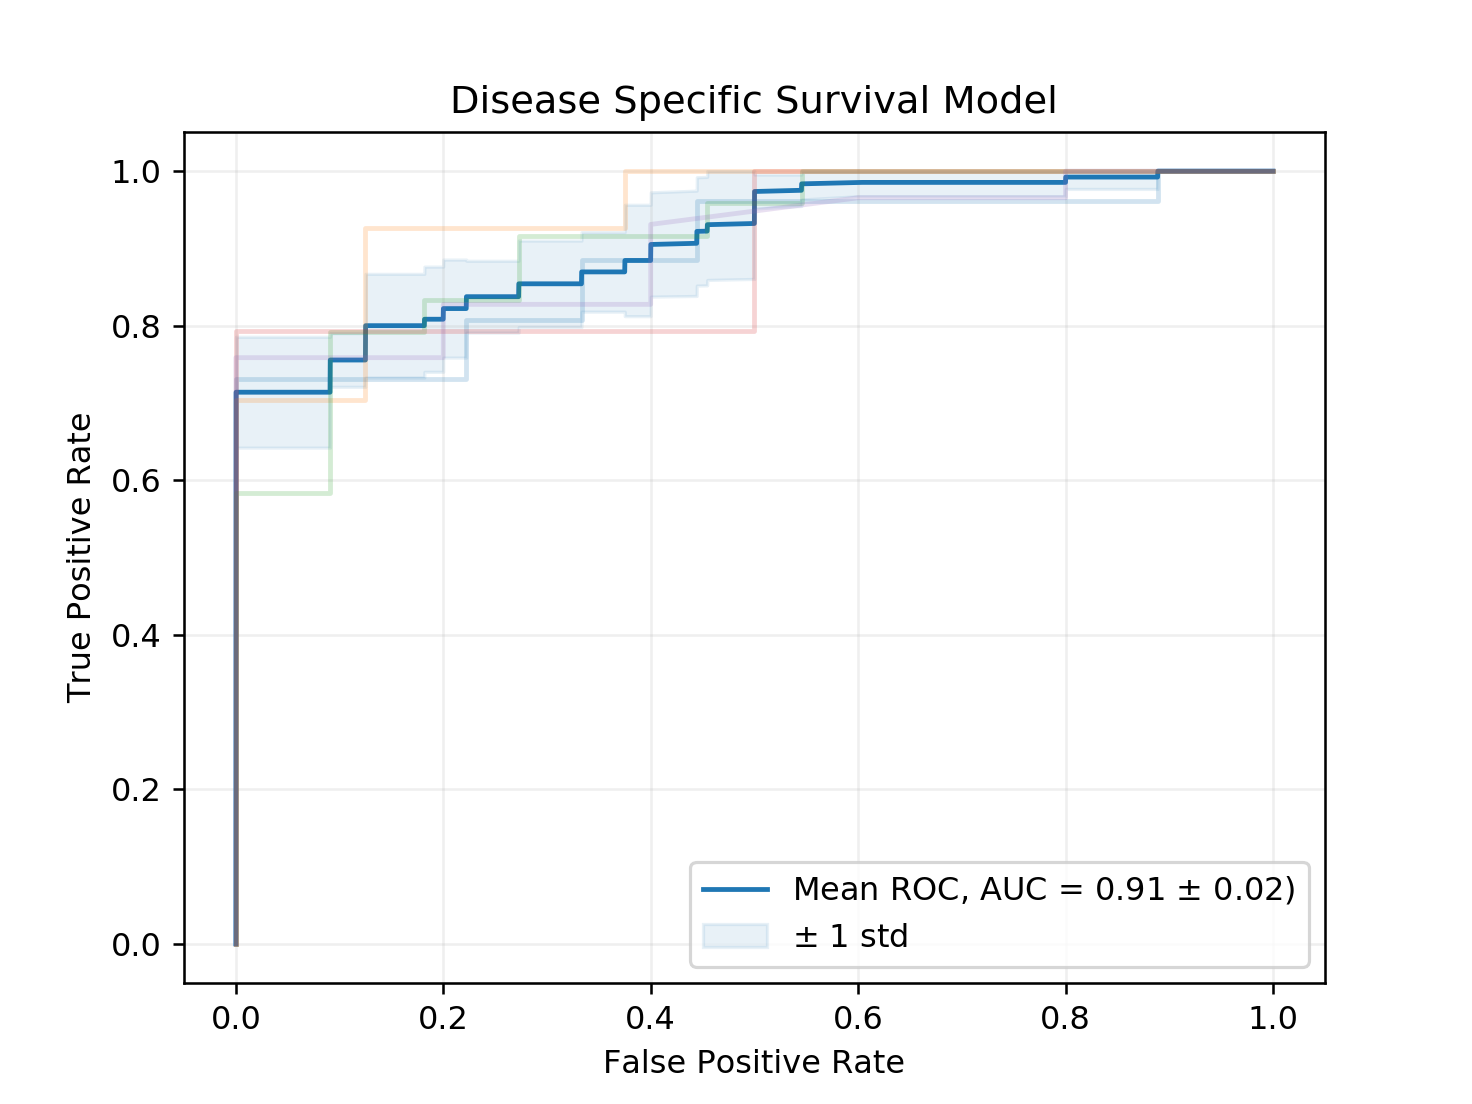
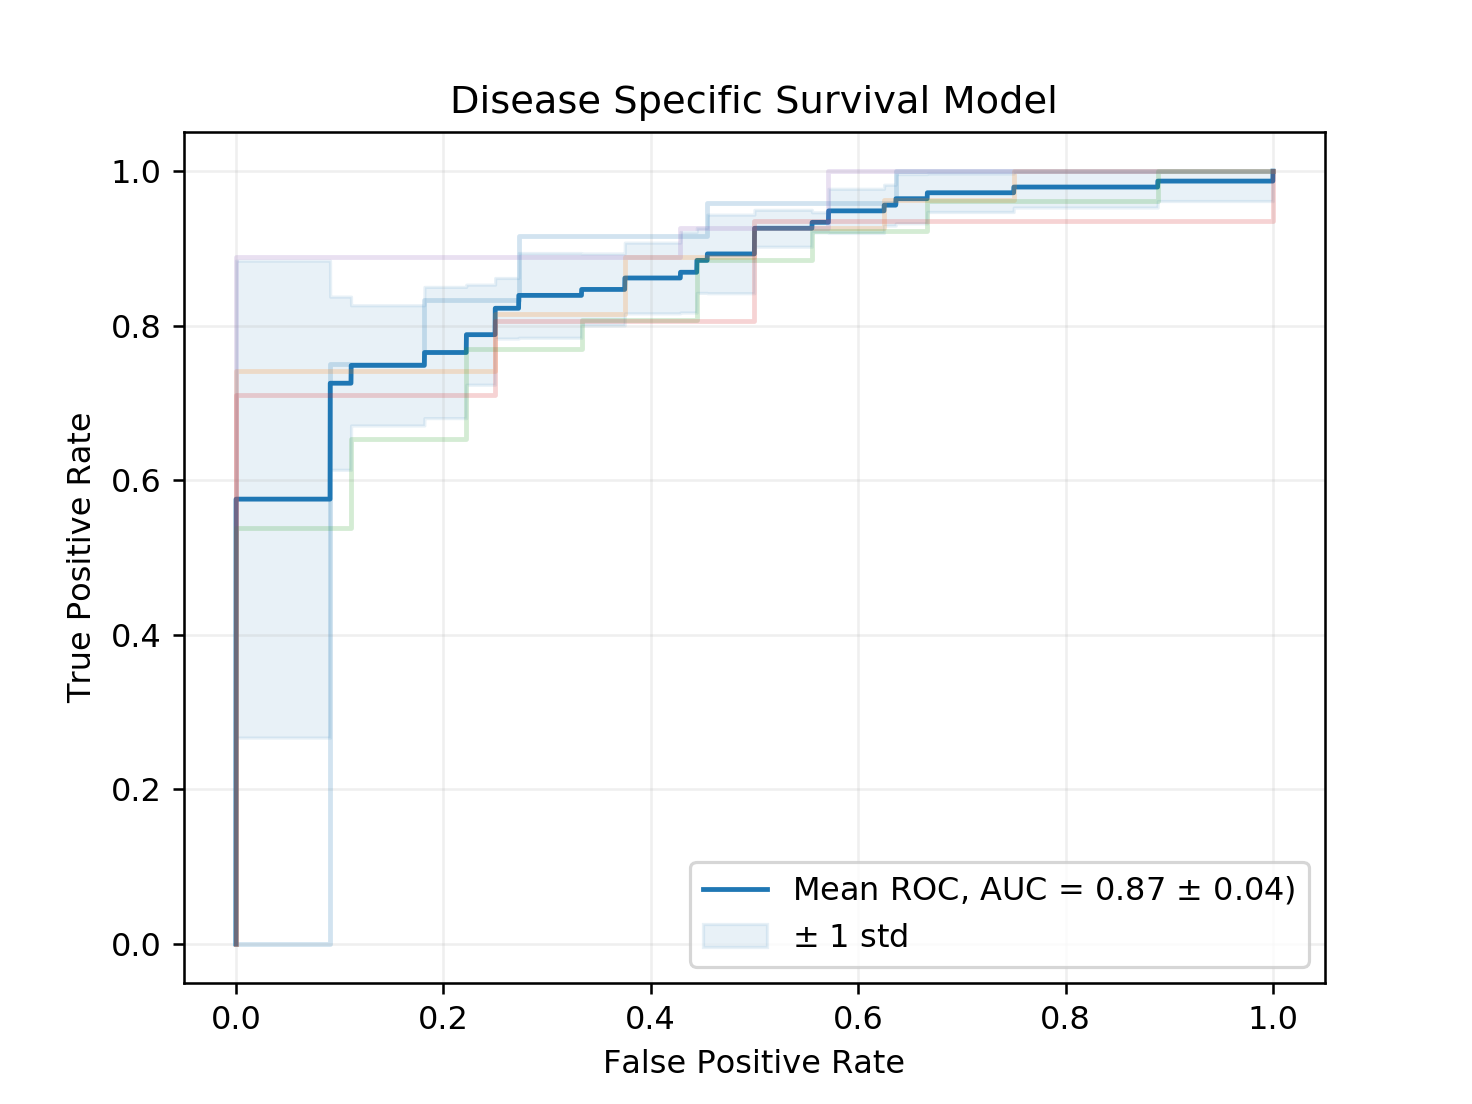
Everything seems to be working

Changed region(s): [[0.1562, 0.154, 0.875, 0.8623], [0.8438, 0.8007, 0.875, 0.8315], [0.75, 0.8007, 0.7812, 0.8315]]

diff --git a/utils.py b/utils.py
@@ -92,13 +92,16 @@ def AUCplot(spec_model, over_model, spec_xtest, over_xtest, yspec, yover, spec_r
 	over_rocs.append([fpr_over, tpr_over])
 
 	# Generate Calibration Curves
-	N = 4
+	N = 10
 	strategy = 'uniform'
-	spec_cal  = calibration_curve(yspec.data.cpu().numpy(), probspec.data.cpu().numpy(), n_bins=N, strategy=strategy)
-	over_cal  = calibration_curve(yover.data.cpu().numpy(), probover.data.cpu().numpy(), n_bins=N, strategy=strategy)
-	#URGENT assert ((len(spec_cal[1])==N) and (len(over_cal[1])==N)), f'len is {len(spec_cal[1])}, {len(over_cal[1])} not {N}'
-	spec_cals.append(spec_cal)
-	over_cals.append(over_cal)
+	# These 4 lines are required to create the K calibration curves and find the mean w/ the +/-1 std region
+	#spec_cal  = calibration_curve(yspec.data.cpu().numpy(), probspec.data.cpu().numpy(), n_bins=N, strategy=strategy)
+	#over_cal  = calibration_curve(yover.data.cpu().numpy(), probover.data.cpu().numpy(), n_bins=N, strategy=strategy)
+	#spec_cals.append(spec_cal)
+	#over_cals.append(over_cal)
+	# These 2 lines are required to create the single calibration curve comprised from all datapoints
+	spec_cals.append([yspec.data.cpu().numpy(), probspec.data.cpu().numpy()])
+	over_cals.append([yover.data.cpu().numpy(), probover.data.cpu().numpy()])
 
 	# Compute AUC Scores
 	AUCspec = roc_auc_score(yspec.data.cpu().numpy(), probspec.data.cpu().numpy())
@@ -210,6 +213,11 @@ def AUCplot(spec_model, over_model, spec_xtest, over_xtest, yspec, yover, spec_r
 
 		# Calibration Plot
 		both_calfig, both_calax = plt.subplots()
+
+		'''
+		# This creates K calibration plots, and computes the mean (interpolated) with a +/- 1 std region
+
+		both_calfig, both_calax = plt.subplots()
 		mean_spec_cal = []
 		mean_over_cal = []
 		for CAL in spec_cals:
@@ -258,6 +266,31 @@ def AUCplot(spec_model, over_model, spec_xtest, over_xtest, yspec, yover, spec_r
 		both_calax.set_ylabel('Observed Population')
 		both_calax.title.set_text("Calibration Curve")
 		plt.savefig("BothCalibration.png", dpi=230)
+		'''
+
+		#pdb.set_trace()
+		y_spec = np.concatenate([cal[0] for cal in spec_cals])
+		p_spec = np.concatenate([cal[1] for cal in spec_cals])
+		y_over = np.concatenate([cal[0] for cal in over_cals])
+		p_over = np.concatenate([cal[1] for cal in over_cals])
+
+		
+		spec = calibration_curve(y_spec, p_spec, n_bins=N, strategy=strategy)
+		over = calibration_curve(y_over, p_over, n_bins=N, strategy=strategy)
+
+		both_calax.plot(spec[1], spec[0], label='DSS', color='C0')
+		both_calax.plot(over[1], over[0], label='OS', color='C1')
+		both_calax.plot([0, 1], [0, 1], 'r--')
+		both_calax.grid(alpha=0.2)
+		both_calax.legend(loc=4)
+		both_calax.set_xlabel('Predicted Probability')
+		both_calax.set_ylabel('Observed Population')
+		both_calax.title.set_text("Calibration Curve")
+		plt.savefig("BothCalibration.png", dpi=230)
+
+
+
+
 
 
 	print(f'\n\nGenerated Specific vs Overall ROC plot for test set #{k} using lastest models in ./ROCs/\n\n')

diff --git a/train.py b/train.py
@@ -9,8 +9,8 @@ from utils import *
 
 # Training Parameters
 k = 5				# Groups for k-fold validation
-width = 512			# Width of model
-epochs = 4000			# Training epochs for each fold
+width = 256			# Width of model
+epochs = 3000		# Training epochs for each fold
 L2 = 1e-3			# L2 Regularization
 L1 = 1e-3			# L1 Regularization
 LR = 1e-3			# Learning Rate
@@ -49,13 +49,13 @@ for i in range(k):
 			model = LSUVinit(model, spec_xtrain, needed_std = 1.0, cuda = True)
 			spec_model = copy.deepcopy(model)
 			over_model = copy.deepcopy(model)
-			spec_optim = torch.optim.Adam(spec_model.parameters(), lr = LR, weight_decay = L1)
-			over_optim = torch.optim.Adam(over_model.parameters(), lr = LR, weight_decay = L1)
+			spec_optim = torch.optim.Adam(spec_model.parameters(), lr = LR, weight_decay = L2)
+			over_optim = torch.optim.Adam(over_model.parameters(), lr = LR, weight_decay = L2)
 		elif epoch == 0:
 			spec_model = copy.deepcopy(model)
-			spec_optim = torch.optim.Adam(spec_model.parameters(), lr = LR, weight_decay = L1)
 			over_model = copy.deepcopy(model)
-			over_optim = torch.optim.Adam(over_model.parameters(), lr = LR, weight_decay = L1)
+			spec_optim = torch.optim.Adam(spec_model.parameters(), lr = LR, weight_decay = L2)
+			over_optim = torch.optim.Adam(over_model.parameters(), lr = LR, weight_decay = L2)
 
 
 
